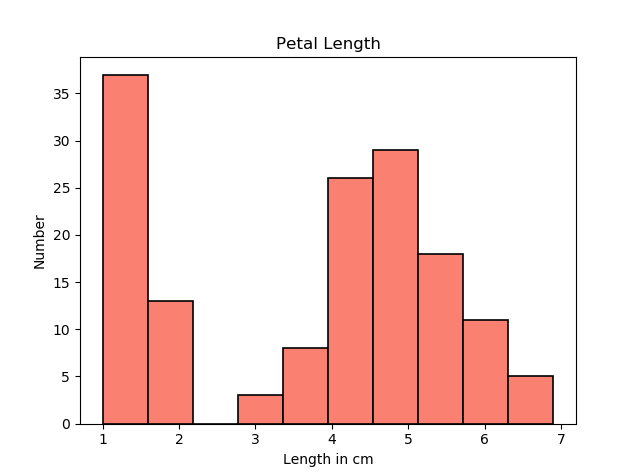
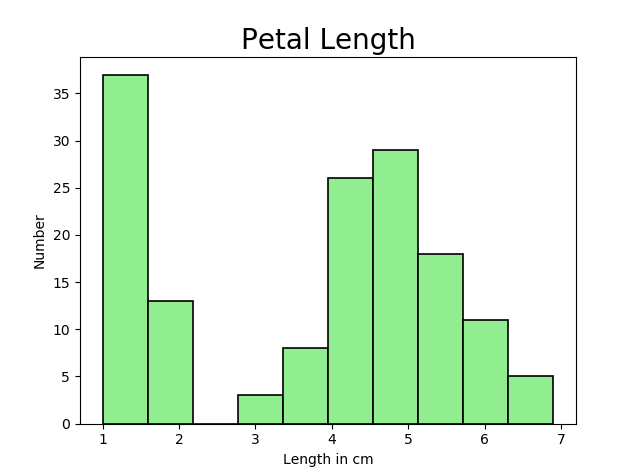
Updated subplots, and colors in histograms

Changed region(s): [[0.375, 0.2941, 0.875, 0.9118], [0.1562, 0.1471, 0.3125, 0.9118], [0.375, 0.0588, 0.6562, 0.1176]]

diff --git a/scatter2.py b/scatter2.py
@@ -3,66 +3,73 @@
 
 #For this task, I copied and pasted my iris data into 3 seperate csv files, one for each species.
 #I hope to find a more efficient way of performing this task in the future. 
-
+#UPDATED (20/04/2018): To better compare across species I plotted all 3 subplots on 1 coordinate graph.
 import numpy as np
+import matplotlib.pyplot as pl
+
 data = np.genfromtxt('data/setosa.csv', delimiter=',')
 set1= data[:,0]
 set2 =  data[:,1]
 set3= data[:,2]
 set4= data[:,3]
+
 data = np.genfromtxt('data/virginica.csv', delimiter=',')
 virg1= data[:,0]
 virg2 =  data[:,1]
 virg3= data[:,2]
 virg4= data[:,3]
+
 data = np.genfromtxt('data/versicolor.csv', delimiter=',')
 vers1= data[:,0]
 vers2=data[:,1]
 vers3= data[:,2]
 vers4= data[:,3]
-import matplotlib.pyplot as pl
 
-f, ((ax1, ax2, ax3)) = pl.subplots(3,1, sharex='all', sharey='all')
-#Refered to the following webpages:
+#Refered to the following webpages to learn about how to use subplots:
 #https://stackoverflow.com/questions/33713034/plotting-multiple-graph-from-a-csv-file-and-output-to-a-single-pdf-svg
 #https://matplotlib.org/examples/pylab_examples/subplots_demo.html
 
-ax1.scatter(set1,set2, color='r', s =10, marker='8', label='Iris-Setosa')
-ax2.scatter(virg1,virg2, color='g', s = 10, label='Iris-Virginica')
-ax3.scatter(vers1,vers2, color='b', s=10, label='Iris-Versicolor')
-ax1.set_title('Sepal Length vs. Width')
-f.text(0.5, 0.04, 'Sepal Length', ha='center')
-f.text(0.04, 0.5, 'Sepal Width', va='center', rotation='vertical')
-#https://stackoverflow.com/questions/16150819/common-xlabel-ylabel-for-matplotlib-subplots
-f.legend(loc = 1)
+f, ax=pl.subplots(1)
+ax.scatter(set1,set2, color='r', s =20, label='Iris-Setosa')
+ax.scatter(virg1,virg2, color='g', s = 20, label='Iris-Virginica')
+ax.scatter(vers1,vers2, color='b', s=20, label='Iris-Versicolor')
+ax.set_title('Sepal Length vs. Sepal Width')
+f.text(0.5, 0.02, 'Sepal Length', ha='center')
+f.text(0.03, 0.5, 'Sepal Width', va='center', rotation='vertical')
+#Refered to https://stackoverflow.com/questions/16150819/common-xlabel-ylabel-for-matplotlib-subplots
+f.legend(loc=1, fontsize='small', shadow=True)
+#Refered to https://matplotlib.org/api/legend_api.html
 pl.show()
 
-f, ((ax1, ax2, ax3)) = pl.subplots(3, 1, sharex='all', sharey='all')
-ax1.scatter(set1,set3, color='r', s =10, label='Iris-Setosa')
-ax2.scatter(virg1,virg3, color='g', s = 10, label='Iris-Virginica')
-ax3.scatter(vers1,vers3, color='b', s=10, label='Iris-Versicolor')
-ax1.set_title('Sepal Length vs. Petal Length')
-f.text(0.5, 0.04, 'Sepal Length', ha='center')
-f.text(0.04, 0.5, 'Petal Length', va='center', rotation='vertical')
-f.legend(loc=1)
+f, ax=pl.subplots(1)
+ax.scatter(set1,set3, color='r', s =20, label='Iris-Setosa')
+ax.scatter(virg1,virg3, color='g', s = 20, label='Iris-Virginica')
+ax.scatter(vers1,vers3, color='b', s=20, label='Iris-Versicolor')
+ax.set_title('Sepal Length vs. Petal Length')
+f.text(0.5, 0.02, 'Sepal Length', ha='center')
+f.text(0.03, 0.5, 'Petal Length', va='center', rotation='vertical')
+f.legend(loc=1, fontsize='small', shadow=True)
 pl.show()
 
-f, ((ax1, ax2, ax3)) = pl.subplots(3, 1, sharex='all', sharey='all')
-ax1.scatter(set1,set4, color='r', s =10, label='Iris-Setosa')
-ax2.scatter(virg1,virg4, color='g', s = 10, label='Iris-Virginica')
-ax3.scatter(vers1,vers4, color='b', s=10, label='Iris-Versicolor')
-ax1.set_title('Sepal Length vs. Petal Width')
-f.text(0.5, 0.04, 'Sepal Length', ha='center')
-f.text(0.04, 0.5, 'Petal Width', va='center', rotation='vertical')
-f.legend(loc=1)
+f, ax=pl.subplots(1)
+ax.scatter(set1,set4, color='r', s =20, label='Iris-Setosa')
+ax.scatter(virg1,virg4, color='g', s = 20, label='Iris-Virginica')
+ax.scatter(vers1,vers4, color='b', s=20, label='Iris-Versicolor')
+ax.set_title('Sepal Length vs. Petal Width')
+f.text(0.5, 0.02, 'Sepal Length', ha='center')
+f.text(0.03, 0.5, 'Petal Width', va='center', rotation='vertical')
+f.legend(loc=1, fontsize='small', shadow=True)
 pl.show()
 
-f, ((ax1, ax2, ax3)) = pl.subplots(3, 1, sharex='all', sharey='all')
-ax1.scatter(set3,set4, color='r', s =10, label='Iris-Setosa')
-ax2.scatter(virg3,virg4, color='g', s = 10, label='Iris-Virginica')
-ax3.scatter(vers3,vers4, color='b', s=10, label='Iris-Versicolor')
-ax1.set_title('Petal Length vs. Width')
-f.text(0.5, 0.04, 'Petal Length', ha='center')
-f.text(0.04, 0.5, 'Petal Width', va='center', rotation='vertical')
-f.legend(loc=1)
+f, ax=pl.subplots(1)
+ax.scatter(set3,set4, color='r', s =20, label='Iris-Setosa')
+ax.scatter(virg3,virg4, color='g', s = 20, label='Iris-Virginica')
+ax.scatter(vers3,vers4, color='b', s=20, label='Iris-Versicolor')
+ax.set_title('Petal Length vs. Petal Width')
+f.text(0.5, 0.02, 'Petal Length', ha='center')
+f.text(0.03, 0.5, 'Petal Width', va='center', rotation='vertical')
+f.legend(loc=1, fontsize='small', shadow=True)
+
 pl.show()
+
+

diff --git a/hist.py b/hist.py
@@ -1,4 +1,4 @@
-#Marion McGowan 
+#Marion McGowan, 18/04/2017
 #Distribution of four data sets: Sepal Length, Sepal Width, Petal Length and Petal Width
 
 import numpy as np
@@ -9,60 +9,61 @@ seccol =  data[:,1]
 thirdcol= data[:,2]
 fourcol= data[:,3]
 
-
-pl.hist(data[:,0], edgecolor='k', linewidth=1.2, color ='salmon')
-pl.title('Sepal Length')
-pl.xlabel('Length in cm')
-pl.ylabel('Number')
-pl.show()
-
-pl.hist(data[:,1], edgecolor='k', linewidth=1.2, color ='salmon')
-pl.title('Sepal Width')
-pl.xlabel('Length in cm')
-pl.ylabel('Number')
-pl.show()
-
-pl.hist(data[:,2], edgecolor='k', linewidth=1.2, color ='salmon')
-pl.title('Petal Length')
-pl.xlabel('Length in cm')
-pl.ylabel('Number')
-pl.show()
-
-pl.hist(data[:,3], edgecolor='k', linewidth=1.2, color ='salmon')
-pl.title('Petal Width')
-pl.xlabel('Length in cm')
-pl.ylabel('Number')
-pl.show()
-
-#Now taking the same distributions, I want to graph them along the same interval of the xaxis
-pl.hist(data[:,0], edgecolor='k', linewidth=1.2, color ='salmon')
-pl.title('Sepal Length')
-pl.xlabel('Length in cm')
-pl.ylabel('Number')
-pl.xticks([0,2, 4,6, 8, 10])
-pl.show()
-
-
-pl.hist(data[:,1], edgecolor='k', linewidth=1.2, color ='salmon')
-pl.title('Sepal Width')
-pl.xlabel('Length in cm')
-pl.ylabel('Number')
-pl.xticks([0,2, 4,6, 8, 10])
-pl.show()
-
-pl.hist(data[:,2], edgecolor='k', linewidth=1.2, color ='salmon')
-pl.title('Petal Length')
-pl.xlabel('Length in cm')
-pl.ylabel('Number')
-pl.xticks([0,2, 4,6, 8, 10])
-pl.show()
-
-pl.hist(data[:,3], edgecolor='k', linewidth=1.2, color ='salmon')
-pl.title('Petal Width')
-pl.xlabel('Length in cm')
-pl.ylabel('Number')
-pl.xticks([0,2, 4,6, 8, 10])
-pl.show()
-
-#Refered to this webpage: 
+#Graphing each measurement as a histogram to get an indication of their distribution
+pl.hist(data[:,0], edgecolor='k', linewidth=1.2, color ='lightcoral')
+#Refered to this webpage to get a border line around the bars of the histogram.
 #https://stackoverflow.com/questions/42741687/python-histogram-outline
+pl.title('Sepal Length', fontsize = '20')
+pl.xlabel('Length in cm')
+pl.ylabel('Number')
+pl.show()
+
+pl.hist(data[:,1], edgecolor='k', linewidth=1.2, color ='gold')
+pl.title('Sepal Width',  fontsize = '20')
+pl.xlabel('Length in cm')
+pl.ylabel('Number')
+pl.show()
+
+pl.hist(data[:,2], edgecolor='k', linewidth=1.2, color ='lightgreen')
+pl.title('Petal Length',  fontsize = '20')
+pl.xlabel('Length in cm')
+pl.ylabel('Number')
+pl.show()
+
+pl.hist(data[:,3], edgecolor='k', linewidth=1.2, color ='lightskyblue')
+pl.title('Petal Width',  fontsize = '20')
+pl.xlabel('Length in cm')
+pl.ylabel('Number')
+pl.show()
+
+#Taking the same distributions, I willnow graph them along the same interval of the xaxis
+#This will give us a better idea of how their distributions compare to one another
+pl.hist(data[:,0], edgecolor='k', linewidth=1.2, color ='lightcoral')
+
+pl.title('Sepal Length',  fontsize = '20')
+pl.xlabel('Length in cm')
+pl.ylabel('Number')
+pl.xticks([0,2, 4,6, 8, 10])
+pl.show()
+
+
+pl.hist(data[:,1], edgecolor='k', linewidth=1.2, color ='gold')
+pl.title('Sepal Width',  fontsize = '20')
+pl.xlabel('Length in cm')
+pl.ylabel('Number')
+pl.xticks([0,2, 4,6, 8, 10])
+pl.show()
+
+pl.hist(data[:,2], edgecolor='k', linewidth=1.2, color ='lightgreen')
+pl.title('Petal Length',  fontsize = '20')
+pl.xlabel('Length in cm')
+pl.ylabel('Number')
+pl.xticks([0,2, 4,6, 8, 10])
+pl.show()
+
+pl.hist(data[:,3], edgecolor='k', linewidth=1.2, color ='lightskyblue')
+pl.title('Petal Width',  fontsize = '20')
+pl.xlabel('Length in cm')
+pl.ylabel('Number')
+pl.xticks([0,2, 4,6, 8, 10])
+pl.show()

diff --git a/scatter1.py b/scatter1.py
@@ -1,7 +1,10 @@
 #Marion McGowan, 16/04/2018
 #Graphical Analysis of Iris Dataset
-#This program graphs Sepal Length against Sepal Wisth, and Petal Length against Petal Width, calculating the Correlation Coefficient for both.
-#It also graphs Sepal Length against the Petal Length and Sepal Width against Petal Width, calculating the Correlation Coefficient for both.
+
+#This program graphs Sepal Length against Sepal Wisth, and Petal Length against Petal Width, 
+# calculating the Correlation Coefficient for both.
+#It also graphs Sepal Length against the Petal Length and Sepal Width against Petal Width,
+# calculating the Correlation Coefficient for both.
 
 import numpy as np
 import matplotlib.pyplot as pl
@@ -13,6 +16,7 @@ seccol =  data[:,1]
 thirdcol= data[:,2]
 fourcol= data[:,3]
 
+#Finding the Correlation Coefficent
 Corr12 = np.corrcoef(firstcol, seccol) [0, 1]
 a= "{0:.4f}".format(round(Corr12, 4))
 print("The correlation coefficient for Sepal Length and Sepal Width is ", a) 
@@ -29,8 +33,7 @@ Lengthcorr = np.corrcoef(seccol, fourcol) [0, 1]
 d= "{0:.4f}".format(round(Lengthcorr, 4))
 print("The correlation coefficient for Sepal Length and Petal Length is ", d)
 
-
-
+#Plotting the scatter diagrams with their lines of best fit will show us a graphical representation of correlation
 pl.scatter(firstcol, seccol, s = 10, color = 'dimgrey', marker='8')
 pl.title('Sepal Length vs. Sepal Width')
 pl.xlabel('Sepal Length')
@@ -57,7 +60,6 @@ pl.ylabel('Petal Width')
 pl.plot(np.unique(seccol), np.poly1d(np.polyfit(seccol, fourcol, 1))(np.unique(seccol)), color = 'salmon')
 pl.xticks([0, 0.5, 1, 1.5,  2, 2.5, 3, 3.5, 4, 4.5])
 pl.show()
-
 
 pl.scatter(thirdcol,fourcol, s=10, color='dimgrey', marker = '8')
 pl.title('Petal Length vs. Petal Width')
